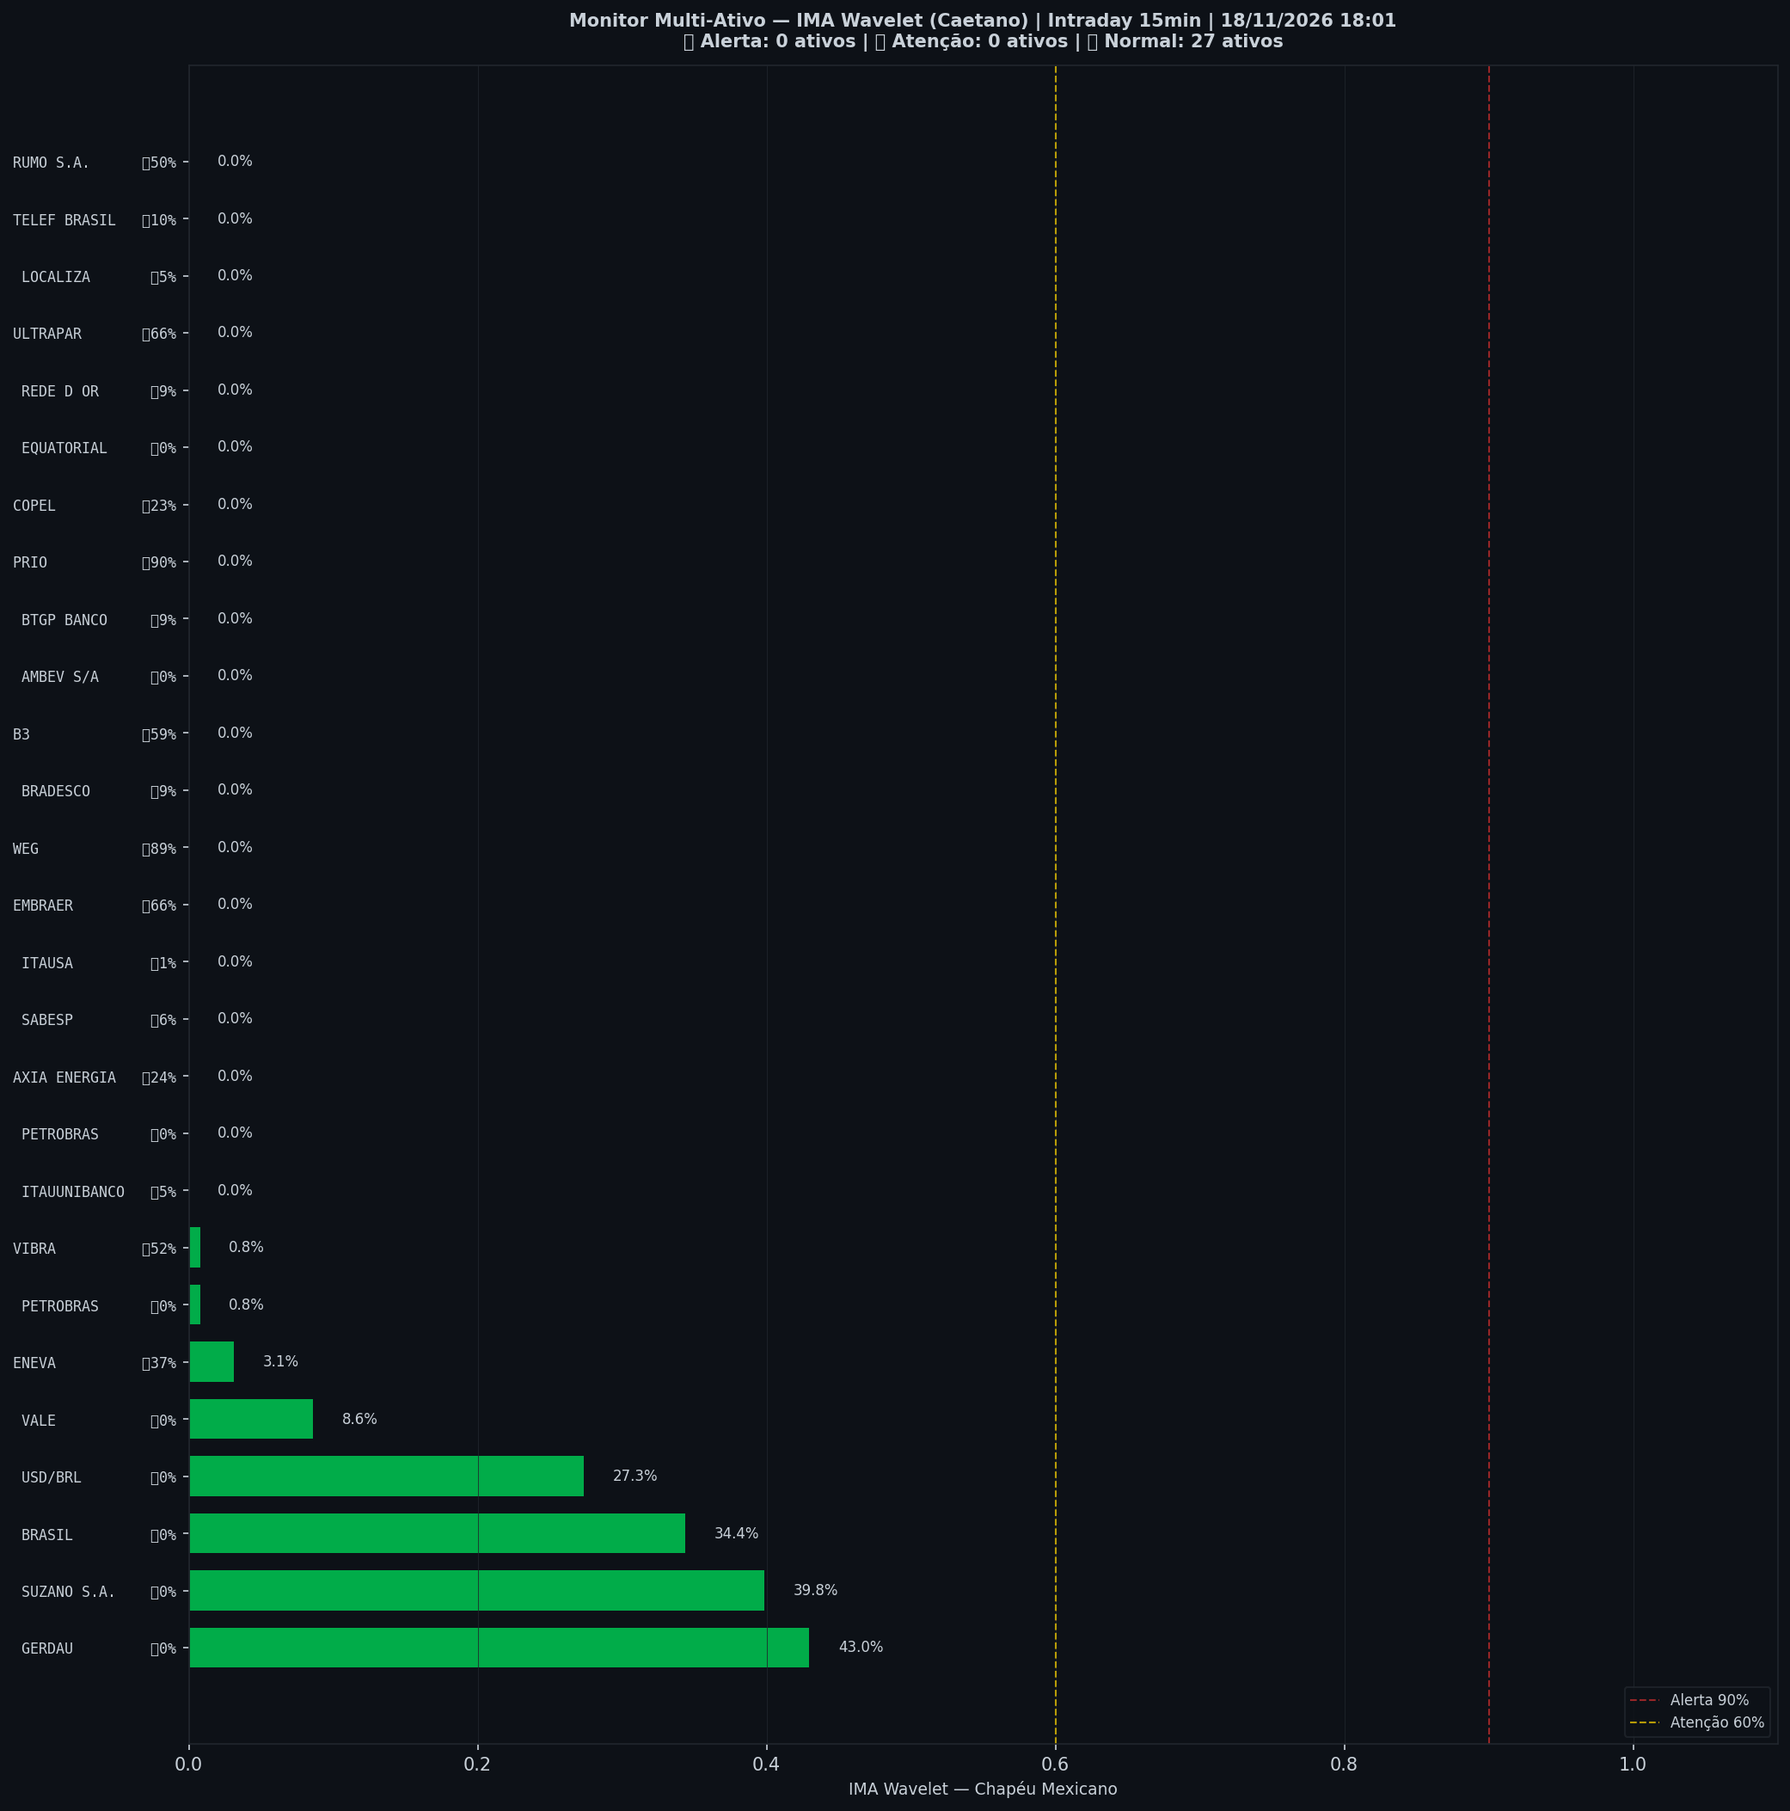
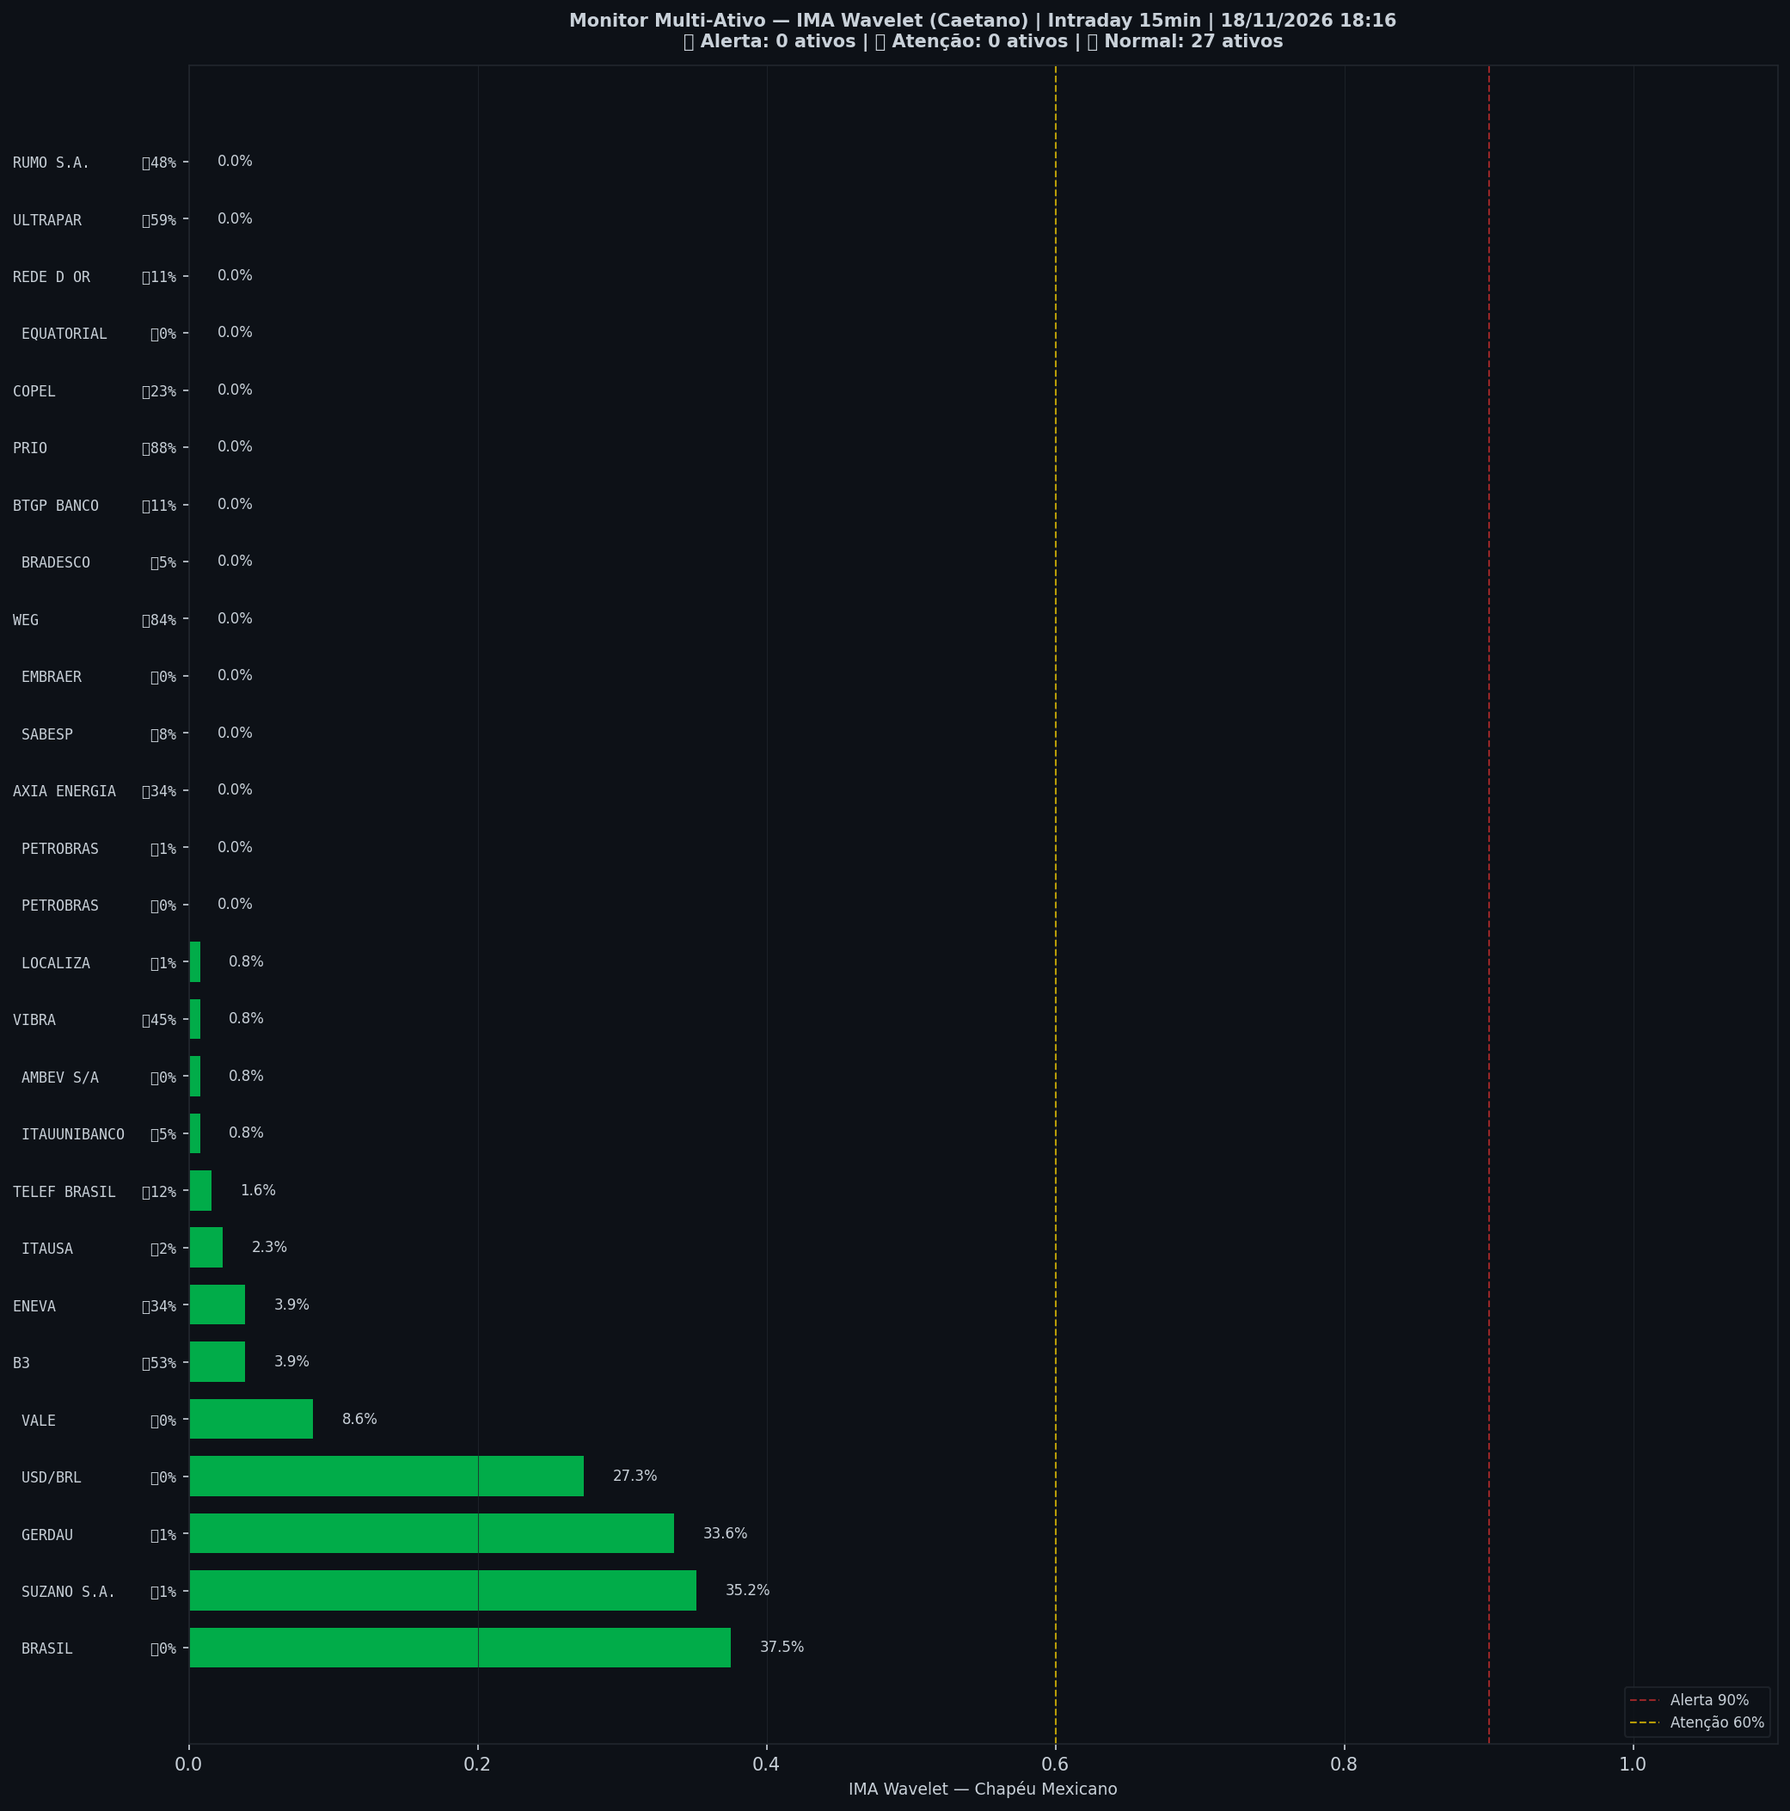
🤖 Auto: Sinal 18/11/2026 18:16

Changed region(s): [[0.0937, 0.5247, 0.1561, 0.7716], [0.3746, 0.8333, 0.4683, 0.9259], [0.0312, 0.5864, 0.0624, 0.679]]

diff --git a/content/intraday/2026-11-18.md b/content/intraday/2026-11-18.md
@@ -1,10 +1,10 @@
 ---
-title: "🟢 Intraday 18/11/2026 17:45 BRT — VERDE"
+title: "🟢 Intraday 18/11/2026 18:00 BRT — VERDE"
 date: 2026-11-18
 tags: [intraday]
 ---
 
-> [!success] Onde o mercado está agora (18/11 17:45, candles de 15 min): **🟢 Calmo**
+> [!success] Onde o mercado está agora (18/11 18:00, candles de 15 min): **🟢 Calmo**
 > `Pânico ◀───────●─────────────▶ Euforia`
 >
 > O Ibovespa está dentro da sua faixa normal, sem excesso para cima nem para baixo.
@@ -20,7 +20,7 @@ tags: [intraday]
 > | 📍 **Sinais** | hoje: nenhum sinal | [abrir](sinais-topo-fundo/) |
 > | 🧪 **Placar ao vivo** | 1 operação(ões), 0 com lucro, soma -0,8% | [abrir](operacoes/) |
 
-> [!success] IMA Intraday · 15 min (18/11 17:45): 🟢 **VERDE** — Risco 0% · ＝ +0 p.p. vs leitura anterior
+> [!success] IMA Intraday · 15 min (18/11 18:00): 🟢 **VERDE** — Risco 0% · ＝ +0 p.p. vs leitura anterior
 > `░░░░░░░░░░░░░░░░░░░░`
 > Preço na faixa normal em torno da tendência.
 
@@ -32,13 +32,13 @@ tags: [intraday]
 >
 > *Leitura educacional baseada em 26 anos de dados, não recomendação. [Como usar](../metodologia/crise#3-como-usar-na-prática).*
 
-| Indicador — IMA Intraday · 15 min (18/11 17:45) | Valor |
+| Indicador — IMA Intraday · 15 min (18/11 18:00) | Valor |
 |---|---|
 | 🔴 ζ Topo — preço esticado acima da tendência | **0%** |
-| 🔵 ζ Fundo — preço esticado abaixo da tendência | 32% |
+| 🔵 ζ Fundo — preço esticado abaixo da tendência | 30% |
 | 🫧 LPPL bolha — alta super-exponencial (risco de crash) | 0% |
 | 🫧 LPPL antibolha — queda super-exponencial (risco de repique) | 0% |
-| 📊 Ibovespa | 167.643 pts |
+| 📊 Ibovespa | 167.538 pts |
 
 ![Gráfico do sinal](../graficos/sinal_intraday.png)
 
@@ -46,6 +46,7 @@ tags: [intraday]
 
 | Data | Zona | Evento | Risco | ζ Topo | ζ Fundo | LPPL |
 |---|---|---|---|---|---|---|
+| 2026-11-18 18:00 | 🟢 VERDE |  | **0%** | 0% | 30% | 0% |
 | 2026-11-18 17:45 | 🟢 VERDE |  | **0%** | 0% | 32% | 0% |
 | 2026-11-18 17:30 | 🟢 VERDE |  | **0%** | 0% | 38% | 0% |
 | 2026-11-18 17:15 | 🟢 VERDE |  | **0%** | 0% | 41% | 0% |
@@ -75,52 +76,51 @@ tags: [intraday]
 | 2026-11-18 11:15 | 🟢 VERDE |  | **1%** | 1% | 1% | 0% |
 | 2026-11-18 11:00 | 🟢 VERDE |  | **2%** | 2% | 2% | 0% |
 | 2026-11-18 10:45 | 🟢 VERDE |  | **1%** | 1% | 2% | 0% |
-| 2026-11-18 10:30 | 🟢 VERDE |  | **2%** | 2% | 2% | 0% |
 
 <small>Destaques: 🟡 ≥ 60% · 🔴 ≥ 90% (Risco e ζ Topo) · 🔵 ≥ 60% · 🔪 ≥ 90% (ζ Fundo) · 🫧 ≥ 30% · 🫧🔴 ≥ 50% (LPPL)</small>
 
 ## Monitor Multi-Ativo
 
-**0% dos ativos em tensão** (0🔴 0🟡) · **4 com ζ Fundo alto** — quanto mais ativos disparam juntos, mais confiável o sinal.
+**0% dos ativos em tensão** (0🔴 0🟡) · **2 com ζ Fundo alto** — quanto mais ativos disparam juntos, mais confiável o sinal.
 
 > [!warning] Em destaque no multi-ativo
-> 🔵 **PRIO** ζ Fundo 90% · 🔵 **WEG** ζ Fundo 89% · 🔵 **EMBRAER** ζ Fundo 66% · 🔵 **ULTRAPAR** ζ Fundo 66%
+> 🔵 **PRIO** ζ Fundo 88% · 🔵 **WEG** ζ Fundo 84%
 
 | Zona | Ativo | Setor | ζ Topo | ζ Fundo |
 |---|---|---|---|---|
-| 🟢 | **PRIO** | Petróleo | 0.0% | 🔵 **89.8%** |
-| 🟢 | **WEG** | Industrial | 0.0% | 🔵 **89.1%** |
-| 🟢 | **EMBRAER** | Outros | 0.0% | 🔵 **66.4%** |
-| 🟢 | **ULTRAPAR** | Outros | 0.0% | 🔵 **66.4%** |
-| 🟢 | **B3** | Financeiro | 0.0% | 58.6% |
-| 🟢 | **VIBRA** | Energia | 0.8% | 52.3% |
-| 🟢 | **RUMO S.A.** | Outros | 0.0% | 50.0% |
-| 🟢 | **GERDAU** | Siderurgia | 43.0% | 0.0% |
-| 🟢 | **SUZANO S.A.** | Papel/Celulose | 39.8% | 0.0% |
-| 🟢 | **ENEVA** | Energia | 3.1% | 36.7% |
-| 🟢 | **BRASIL** | Financeiro | 34.4% | 0.0% |
+| 🟢 | **PRIO** | Petróleo | 0.0% | 🔵 **87.5%** |
+| 🟢 | **WEG** | Industrial | 0.0% | 🔵 **84.4%** |
+| 🟢 | **ULTRAPAR** | Outros | 0.0% | 59.4% |
+| 🟢 | **B3** | Financeiro | 3.9% | 53.1% |
+| 🟢 | **RUMO S.A.** | Outros | 0.0% | 48.4% |
+| 🟢 | **VIBRA** | Energia | 0.8% | 44.5% |
+| 🟢 | **BRASIL** | Financeiro | 37.5% | 0.0% |
+| 🟢 | **SUZANO S.A.** | Papel/Celulose | 35.2% | 0.8% |
+| 🟢 | **AXIA ENERGIA** | Energia | 0.0% | 34.4% |
+| 🟢 | **ENEVA** | Energia | 3.9% | 34.4% |
+| 🟢 | **GERDAU** | Siderurgia | 33.6% | 0.8% |
 | 🟢 | **USD/BRL** | Câmbio | 27.3% | 0.0% |
-| 🟢 | **AXIA ENERGIA** | Energia | 0.0% | 24.2% |
-| 🟢 | **COPEL** | Energia | 0.0% | 23.4% |
-| 🟢 | **TELEF BRASIL** | Outros | 0.0% | 10.2% |
-| 🟢 | **BRADESCO** | Financeiro | 0.0% | 9.4% |
-| 🟢 | **BTGP BANCO** | Financeiro | 0.0% | 9.4% |
-| 🟢 | **REDE D OR** | Saúde | 0.0% | 9.4% |
+| 🟢 | **COPEL** | Energia | 0.0% | 22.7% |
+| 🟢 | **TELEF BRASIL** | Outros | 1.6% | 12.5% |
+| 🟢 | **BTGP BANCO** | Financeiro | 0.0% | 10.9% |
+| 🟢 | **REDE D OR** | Saúde | 0.0% | 10.9% |
 | 🟢 | **VALE** | Mineração | 8.6% | 0.0% |
-| 🟢 | **SABESP** | Saneamento | 0.0% | 6.2% |
-| 🟢 | **ITAUUNIBANCO** | Financeiro | 0.0% | 4.7% |
-| 🟢 | **LOCALIZA** | Aluguel | 0.0% | 4.7% |
-| 🟢 | **PETROBRAS** | Petróleo | 0.8% | 0.0% |
-| 🟢 | **ITAUSA** | Financeiro | 0.0% | 0.8% |
+| 🟢 | **SABESP** | Saneamento | 0.0% | 7.8% |
+| 🟢 | **ITAUUNIBANCO** | Financeiro | 0.8% | 5.5% |
+| 🟢 | **BRADESCO** | Financeiro | 0.0% | 4.7% |
+| 🟢 | **ITAUSA** | Financeiro | 2.3% | 1.6% |
+| 🟢 | **PETROBRAS** | Petróleo | 0.0% | 0.8% |
+| 🟢 | **AMBEV S/A** | Consumo | 0.8% | 0.0% |
+| 🟢 | **LOCALIZA** | Aluguel | 0.8% | 0.8% |
 | 🟢 | **PETROBRAS** | Petróleo | 0.0% | 0.0% |
-| 🟢 | **AMBEV S/A** | Consumo | 0.0% | 0.0% |
+| 🟢 | **EMBRAER** | Outros | 0.0% | 0.0% |
 | 🟢 | **EQUATORIAL** | Energia | 0.0% | 0.0% |
 
 <small>Destaques: 🟡 ≥ 60% · 🔴 ≥ 90% (Risco e ζ Topo) · 🔵 ≥ 60% · 🔪 ≥ 90% (ζ Fundo) · 🫧 ≥ 30% · 🫧🔴 ≥ 50% (LPPL)</small>
 
 ![Monitor multi-ativo](../graficos/multi_intraday.png)
 
-*Página atualizada em 18/11/2026 18:01 BRT (leitura da barra de 2026-11-18 17:45 BRT).*
+*Página atualizada em 18/11/2026 18:16 BRT (leitura da barra de 2026-11-18 18:00 BRT).*
 
 > [!warning] O que este indicador não faz
 > Medido em 5 anos de Ibovespa, o ζ **não antecipa** topos nem fundos: a capacidade de separar o que sobe do que cai ficou em 0,49–0,52, e 0,50 é moeda jogada ao ar. Ele descreve o estado de agora; não é aviso do que vem. As zonas verde/amarelo/vermelho continuam na página como descrição desse estado — **não as use como sinal de entrada ou saída**.

diff --git a/content/index.md b/content/index.md
@@ -6,9 +6,9 @@ tags: [home]
 
 **As ondas do mercado, explicadas.** Leitura do Ibovespa com estatística de 26 anos, baseada no trabalho de pesquisadores e traders reconhecidos e adaptada por Jarbas Daniel da Costa.
 
-*Última atualização: 18/11/2026 18:01 BRT · Intraday 15min*
+*Última atualização: 18/11/2026 18:16 BRT · Intraday 15min*
 
-> [!success] Onde o mercado está agora (18/11 17:45, candles de 15 min): **🟢 Calmo**
+> [!success] Onde o mercado está agora (18/11 18:00, candles de 15 min): **🟢 Calmo**
 > `Pânico ◀───────●─────────────▶ Euforia`
 >
 > O Ibovespa está dentro da sua faixa normal, sem excesso para cima nem para baixo.
@@ -44,18 +44,18 @@ tags: [home]
 > *Leitura educacional baseada em 26 anos de dados, não recomendação. [Como usar](metodologia/crise#3-como-usar-na-prática).*
 
 > [!info]- 🌊 Detalhes do Sinal IMA (indicadores e últimos 7 pregões)
-> > [!success] IMA Intraday · 15 min (18/11 17:45): 🟢 **VERDE** — Risco 0% · ＝ +0 p.p. vs leitura anterior
+> > [!success] IMA Intraday · 15 min (18/11 18:00): 🟢 **VERDE** — Risco 0% · ＝ +0 p.p. vs leitura anterior
 > > `░░░░░░░░░░░░░░░░░░░░`
 > > Preço na faixa normal em torno da tendência.
 >
 >
-> | Indicador — IMA Intraday · 15 min (18/11 17:45) | Valor |
+> | Indicador — IMA Intraday · 15 min (18/11 18:00) | Valor |
 > |---|---|
 > | 🔴 ζ Topo — preço esticado acima da tendência | **0%** |
-> | 🔵 ζ Fundo — preço esticado abaixo da tendência | 32% |
+> | 🔵 ζ Fundo — preço esticado abaixo da tendência | 30% |
 > | 🫧 LPPL bolha — alta super-exponencial (risco de crash) | 0% |
 > | 🫧 LPPL antibolha — queda super-exponencial (risco de repique) | 0% |
-> | 📊 Ibovespa | 167.643 pts |
+> | 📊 Ibovespa | 167.538 pts |
 >
 > **Multi-ativo:** 0% em tensão (0🔴 0🟡 de 27 ativos)
 >
@@ -63,7 +63,7 @@ tags: [home]
 >
 > | Data | Zona | Risco | ζ Topo | ζ Fundo | LPPL |
 > |---|---|---|---|---|---|
-> | [18/11/2026](intraday/2026-11-18) | 🟢 VERDE | **0%** | 0% | 32% | 0% |
+> | [18/11/2026](intraday/2026-11-18) | 🟢 VERDE | **0%** | 0% | 30% | 0% |
 >
 > <small>Destaques: 🟡 ≥ 60% · 🔴 ≥ 90% (Risco e ζ Topo) · 🔵 ≥ 60% · 🔪 ≥ 90% (ζ Fundo) · 🫧 ≥ 30% · 🫧🔴 ≥ 50% (LPPL)</small>
 >

diff --git a/content/operacoes/entradas.md b/content/operacoes/entradas.md
@@ -31,7 +31,7 @@ description: "Compra depois de um sinal de fundo: Nadaraya no diário, semáforo
 > | Diário · Semáforo N3 após ζ Fundo | 07/07/26 a 172.021 | 10/08/26 a 172.021 | **+0,0%** | stop no preço de entrada |
 > | H4 · Semáforo N2 | 12/06/26 14h a 171.134 | 15/06/26 14h a 171.134 | **+0,0%** | stop no preço de entrada |
 >
-> <small>Atualizado 17/11 19:00 · checado no pregão às 18:00. Nota: ✅ passou no teste fora da amostra (walk-forward 2008–2026) · 🧪 em teste (H4, com aviso no Telegram) ou em observação (ζ, sem aviso) · 🧪 na tabela = operação do teste ao vivo.</small>
+> <small>Atualizado 17/11 19:00 · checado no pregão às 18:15. Nota: ✅ passou no teste fora da amostra (walk-forward 2008–2026) · 🧪 em teste (H4, com aviso no Telegram) ou em observação (ζ, sem aviso) · 🧪 na tabela = operação do teste ao vivo.</small>
 >
 > *Regras: depois de um sinal de fundo, o Diário entra quando o Nadaraya vira para cima; o Semanal e o H4 entram quando um fundo do semáforo fica fixo. Stop e saída de cada regra na [metodologia](metodologia/regras-de-operacao#entradas-do-método). Nenhuma regra de venda passou no teste. Os números do histórico têm viés de escolha (overfitting); o placar ao vivo é o que vale. Leitura educacional do método, não recomendação.*
 

diff --git a/content/integridade/index.md b/content/integridade/index.md
@@ -5,7 +5,7 @@ description: "O que foi conferido, contra qual fonte e quando — medido na hora
 tags: [integridade]
 ---
 
-*Pregão conferido: **17/11/2026**, com 61 tabelas no acervo · página gerada em 18/11/2026 18:01*
+*Pregão conferido: **17/11/2026**, com 61 tabelas no acervo · página gerada em 18/11/2026 18:16*
 
 O pregão conferido é o último **fechado e arquivado inteiro**, não o de hoje: enquanto o dia corre, só algumas tabelas estão gravadas, e conferir um dia pela metade produziria alarme falso.
 
@@ -22,7 +22,7 @@ Esta página não declara que o site está correto. Ela **mede** e escreve o res
 | Tabelas com conteúdo fora da curva | nenhuma |
 | Páginas publicadas | 353 |
 | Conferências cruzadas das páginas | 71 certas, nenhuma divergência |
-| Página escrita mais recentemente | 18/11 18:01 |
+| Página escrita mais recentemente | 18/11 18:16 |
 | Páginas sem data no cabeçalho | 8 — cegas para a conferência de dado |
 
 ## 1 · Acervo do boletim diário

diff --git a/content/historico.md b/content/historico.md
@@ -5,7 +5,7 @@ tags: [historico]
 
 # 📜 Histórico de leituras (v5)
 
-**2.479 leituras** desde 2026-07-03. Na página ficam os últimos 3 dias leitura por leitura e o resumo de cada dia anterior; o registro inteiro está no arquivo para baixar.
+**2.480 leituras** desde 2026-07-03. Na página ficam os últimos 3 dias leitura por leitura e o resumo de cada dia anterior; o registro inteiro está no arquivo para baixar.
 
 [**Baixar o histórico completo**](historico-completo.csv) (109 KB · abre no Excel e no LibreOffice)
 
@@ -16,6 +16,7 @@ tags: [historico]
 
 | Data | Modo | Zona | Risco | IMA | LPPL |
 |---|---|---|---|---|---|
+| 2026-11-18 18:00 | intraday | 🟢 VERDE | 0% | 0% | 0% |
 | 2026-11-18 17:45 | intraday | 🟢 VERDE | 0% | 0% | 0% |
 | 2026-11-18 17:30 | intraday | 🟢 VERDE | 0% | 0% | 0% |
 | 2026-11-18 17:15 | intraday | 🟢 VERDE | 0% | 0% | 0% |

diff --git a/content/operacoes/ranking.md b/content/operacoes/ranking.md
@@ -5,7 +5,7 @@ tags: [operacoes]
 description: "As regras de compra do site ordenadas pelo resultado, com treino, teste e placar ao vivo"
 ---
 
-*Atualizado 18/11/2026 18:01 · histórico simulado com as regras congeladas em 23/10/2026 + placar ao vivo.*
+*Atualizado 18/11/2026 18:16 · histórico simulado com as regras congeladas em 23/10/2026 + placar ao vivo.*
 
 As regras de compra do site, **da que mais rendeu para a que menos rendeu**. O resultado é por operação, no índice à vista, sem custos e sem juros compostos (a soma é só a soma das operações). **Treino** = entradas de 2001 a 2013 e **teste** = 2014 em diante: uma regra só é confiável se ganhou nos dois. O único resultado sem nenhum ajuste ao histórico é o **placar ao vivo**.
 

diff --git a/content/linha-do-tempo/index.md b/content/linha-do-tempo/index.md
@@ -5,7 +5,7 @@ description: "Todo sinal, ordem, stop e aviso do Pêndulo de Mercado, do mais re
 tags: [eventos]
 ---
 
-*Atualizada 18/11/2026 18:01 BRT · a cada 15 min no pregão e às 19h.*
+*Atualizada 18/11/2026 18:16 BRT · a cada 15 min no pregão e às 19h.*
 
 Tudo o que o sistema fez ou detectou, **do mais recente para o mais antigo**: sinais de topo e fundo, ordens de compra e de venda armadas, compras, vendas, stops, avisos de 🚨 preço perto do nível e mudanças do Sinal IMA. Os **últimos 7 dias** ficam abertos; o resto, por **ano → mês → dia**.
 

diff --git a/content/avisos/index.md b/content/avisos/index.md
@@ -2,7 +2,7 @@
 title: "⚠ Avisos: o que saber antes de usar os números"
 ---
 
-*Gerado em 18/11/2026 18:01*
+*Gerado em 18/11/2026 18:16*
 
 Este site publica muitos números, e cada um tem uma limitação que importa na hora de
 decidir. As limitações estão escritas nas próprias páginas, mas quem chega direto numa
